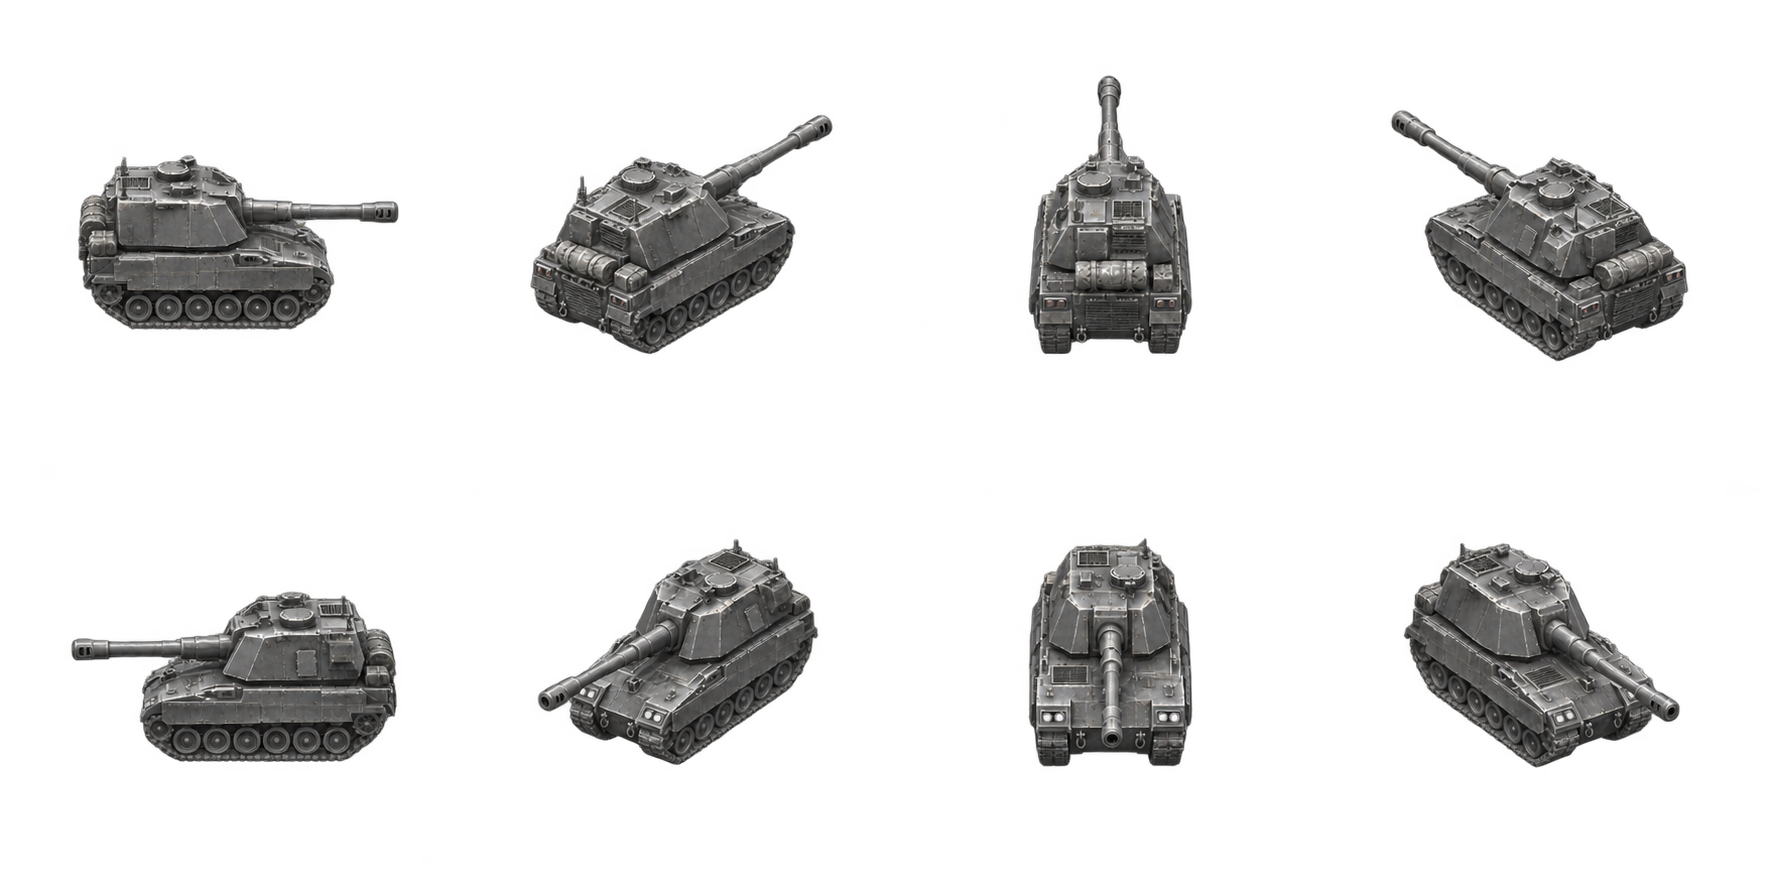
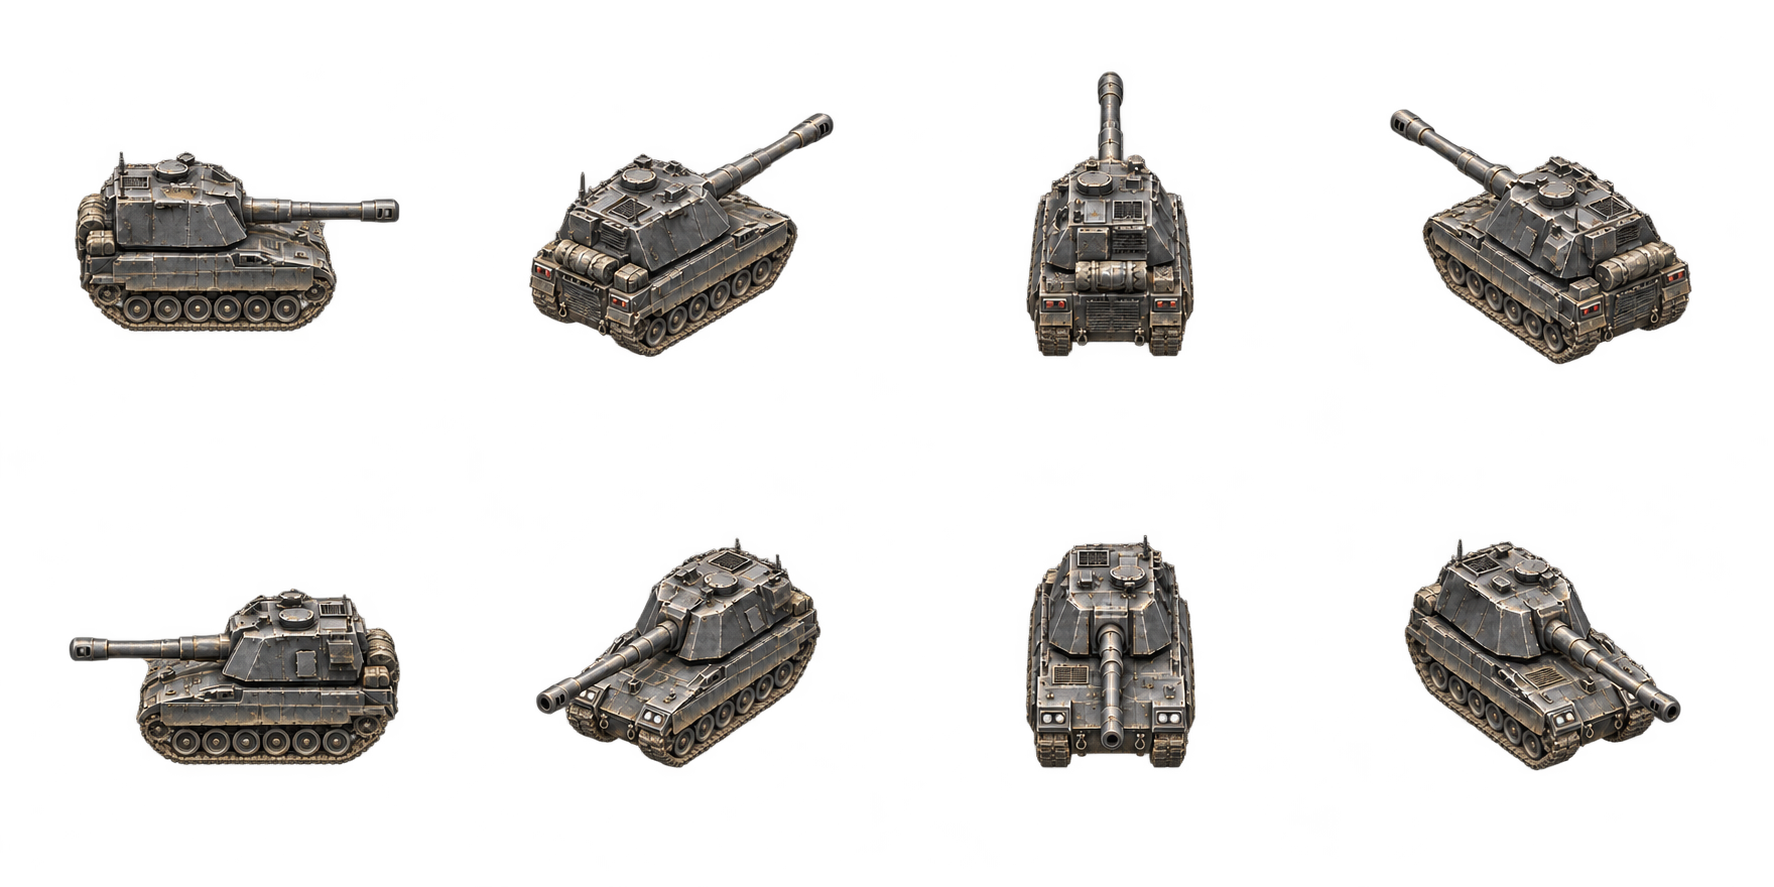
v6.33: 优化火炮航母素材并同步探针镜像

diff --git a/DesertFrontline/GameScene.swift b/DesertFrontline/GameScene.swift
@@ -1539,6 +1539,15 @@ final class GameScene: SKScene {
         ciBeacon("fixture-start")
         prepareCICaptureScene()
         if isCICaptureMode {
+            // Capture fixtures can mirror several units directly before the
+            // first update tick. Synchronize their sprites and contact shadows.
+            for entity in entities.values where entity.isAlive && entity.kind.domain == .land && !entity.kind.isStructure {
+                if entity.kind == .tank {
+                    updateTankArtworkFacing(entity, direction: nil)
+                } else if let textures = groundDirectionTextures[entity.kind] {
+                    updateDirectionalArtworkFacing(entity, direction: nil, textures: textures)
+                }
+            }
             auditTankDirectionArtwork()
             auditAirDirectionArtwork()
             auditNavalDirectionArtwork()

diff --git a/md/art/v6.33-artwork.md b/md/art/v6.33-artwork.md
@@ -1,0 +1,7 @@
+# v6.33 火炮和航母方向素材
+
+内置 imagegen 分别以项目原火炮、航母图集为格位和朝向参考生成；原图保存在 `/Users/a114514/.codex/generated_images/1/v6.33-artillery-eight-candidate.png`、`/Users/a114514/.codex/generated_images/1/v6.33-carrier-eight.png`。项目资源为原始输出的逐字节副本，维持四列两行与现有世界格和锚点。云端原生画面待验证。
+
+火炮提示词：Use case: stylized-concept. Game asset: transparent 4x2 eight-direction sprite atlas for an isometric desert RTS. Reference image defines the exact same tracked self-propelled howitzer, layout, direction of chassis and barrel in every cell, consistent orthographic perspective, equal size and generous clear cell margins. Re-render with premium detailed graphite armor, realistic track links and road wheels, subtle worn sandy dust, precision panels and barrel details, balanced natural daylight and excellent small-scale readability; consistent single design across all eight. No ground, cast shadow, text, border, or extra objects. True transparent background.
+
+航母提示词：Use case: stylized-concept. Asset: 4 by 2 eight-heading sprite atlas for isometric desert RTS naval combat, on true transparent background. Use reference as strict direction, camera, grid and scale template, eight views of the same modern compact aircraft carrier, preserve bow direction and island placement. Upgrade to premium detailed realistic game asset: graphite steel hull, purposeful flight deck with fine but legible markings, compact parked jets, arresting wires, antennas and weathered steel, restrained neutral daylight, crisp silhouette, consistent design and equal centered framing in each cell. Clear margins. No sea, wake, baked shadow, text, border, labels, or extra objects.
